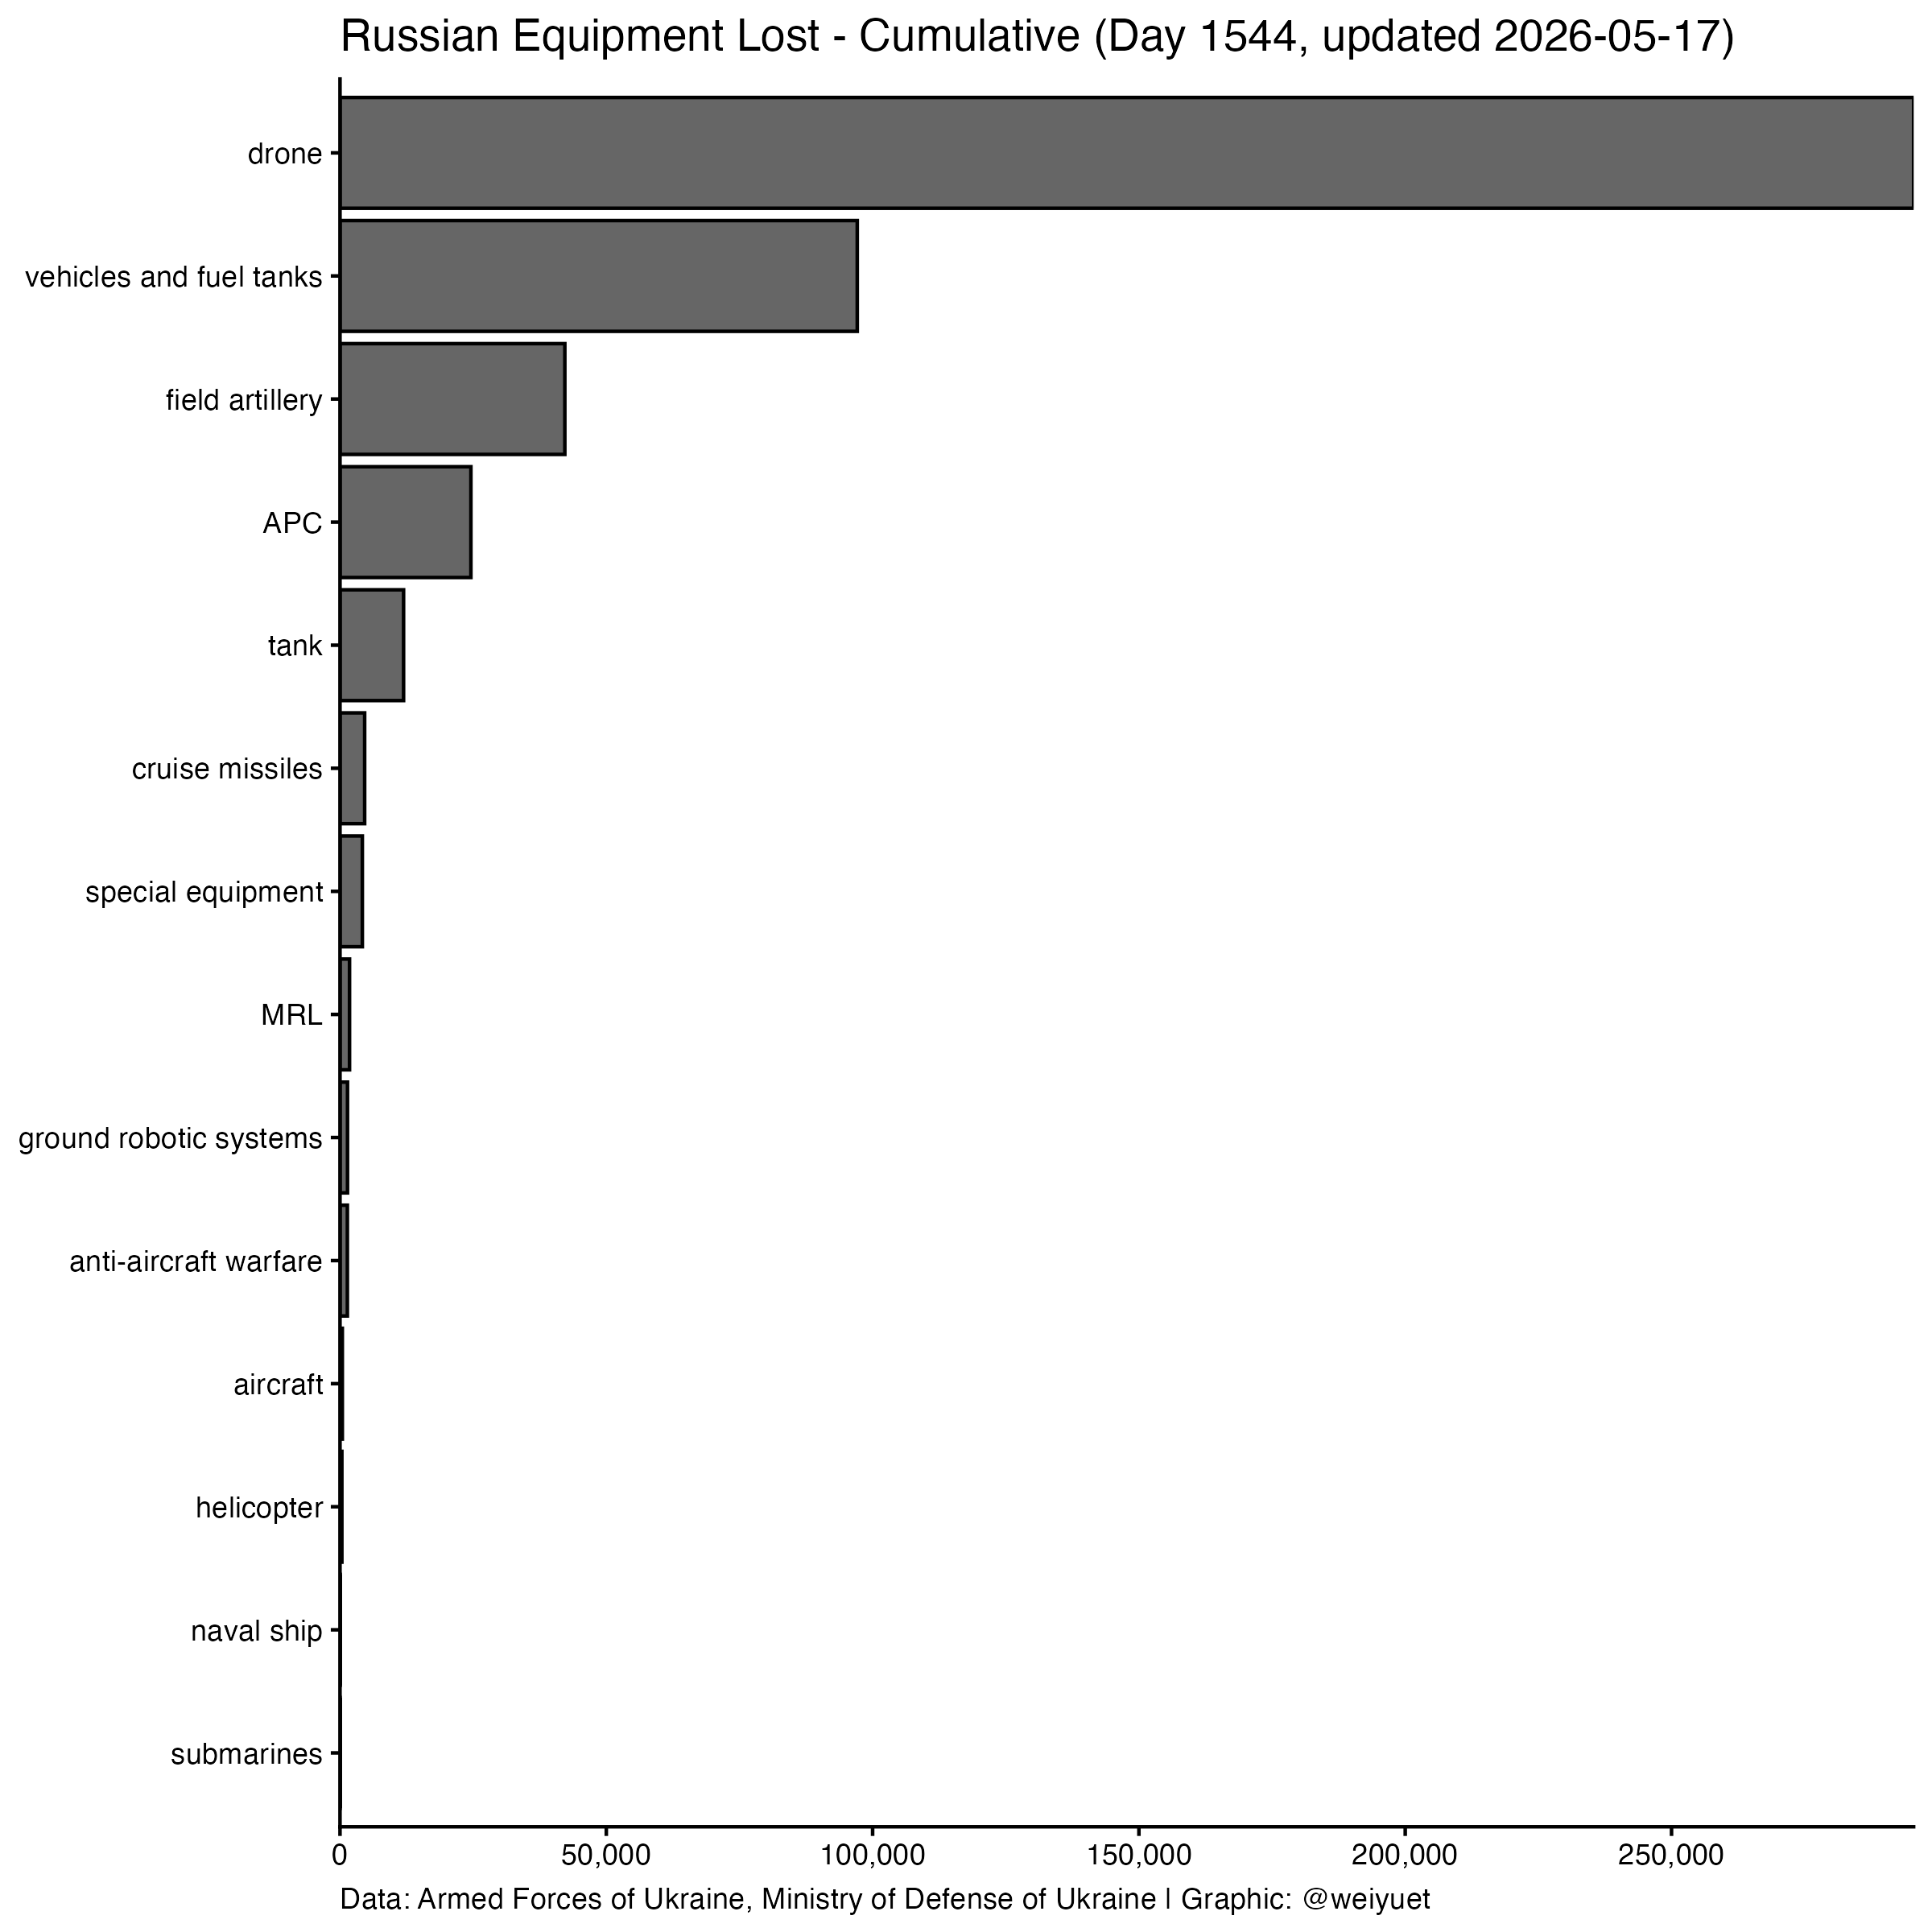
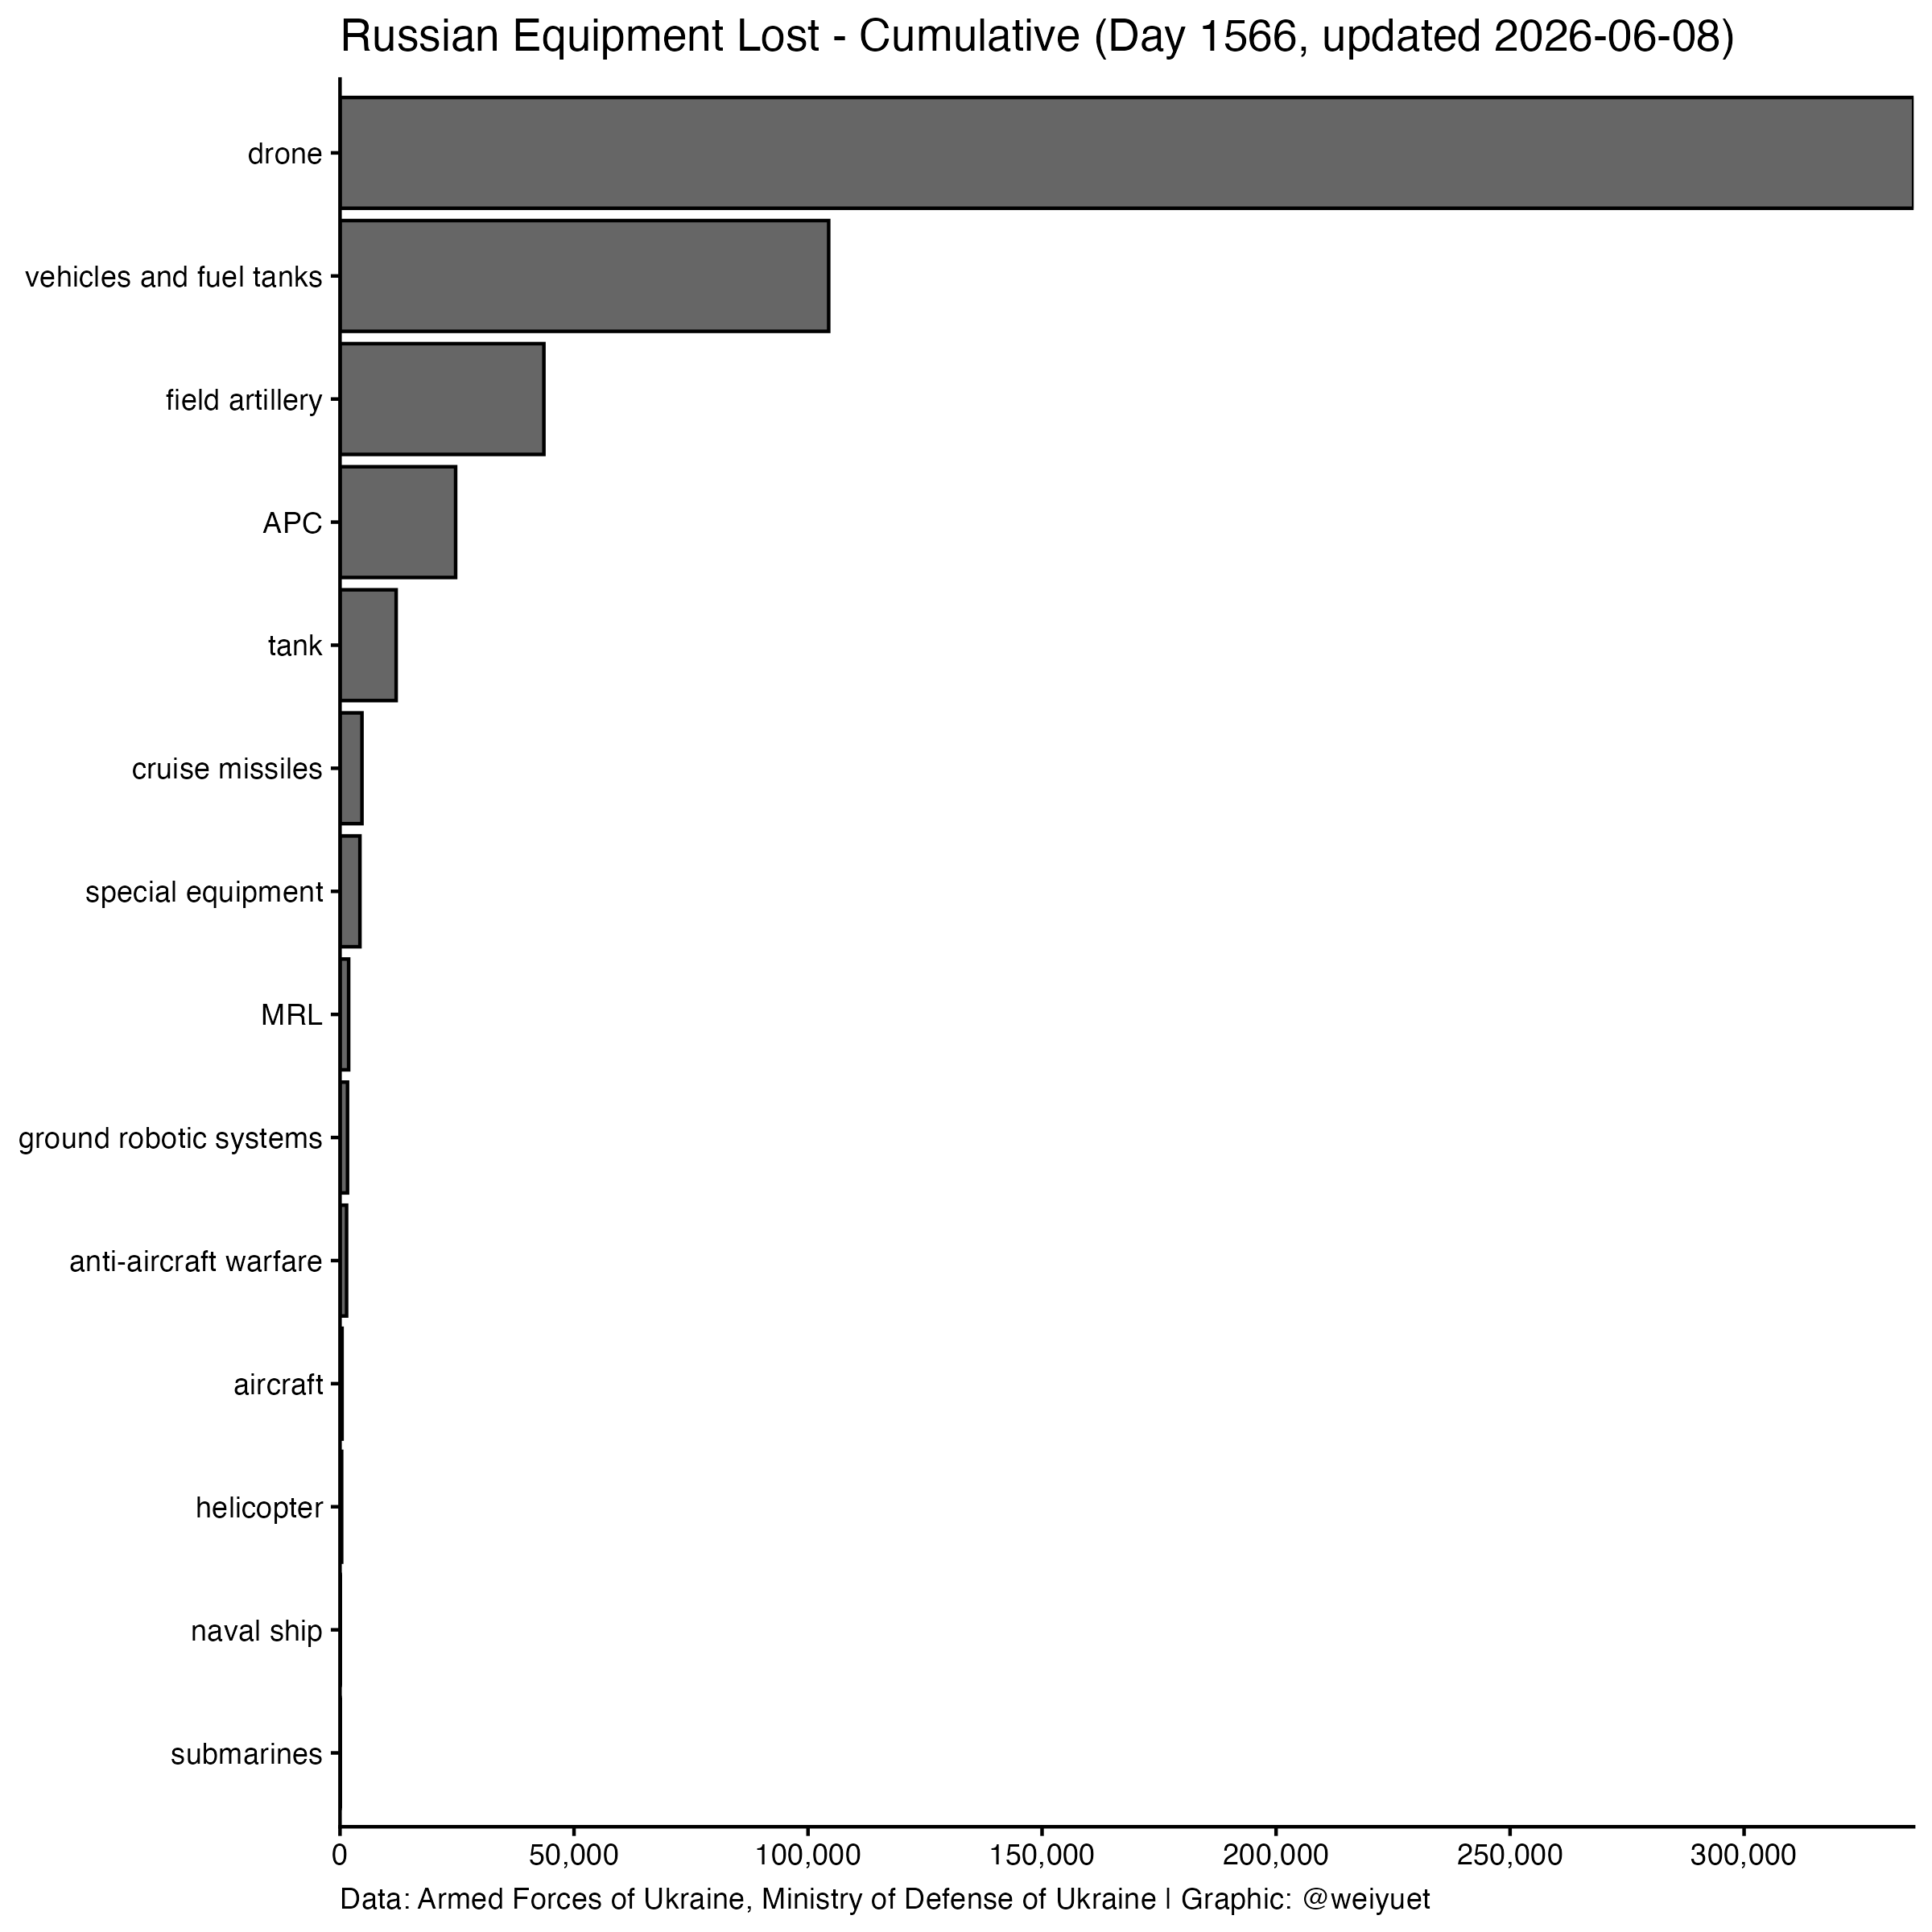
Updated 9 June

diff --git a/README.md b/README.md
@@ -2,7 +2,7 @@
 
 Created: 2022-05-26
 
-Updated: 2026-05-18
+Updated: 2026-06-08
 
   - First Inspired by [`Lena Sokol's Kaggle`](https://www.kaggle.com/code/sokolheavy/2022-ukraine-russia-war-visualization).
 